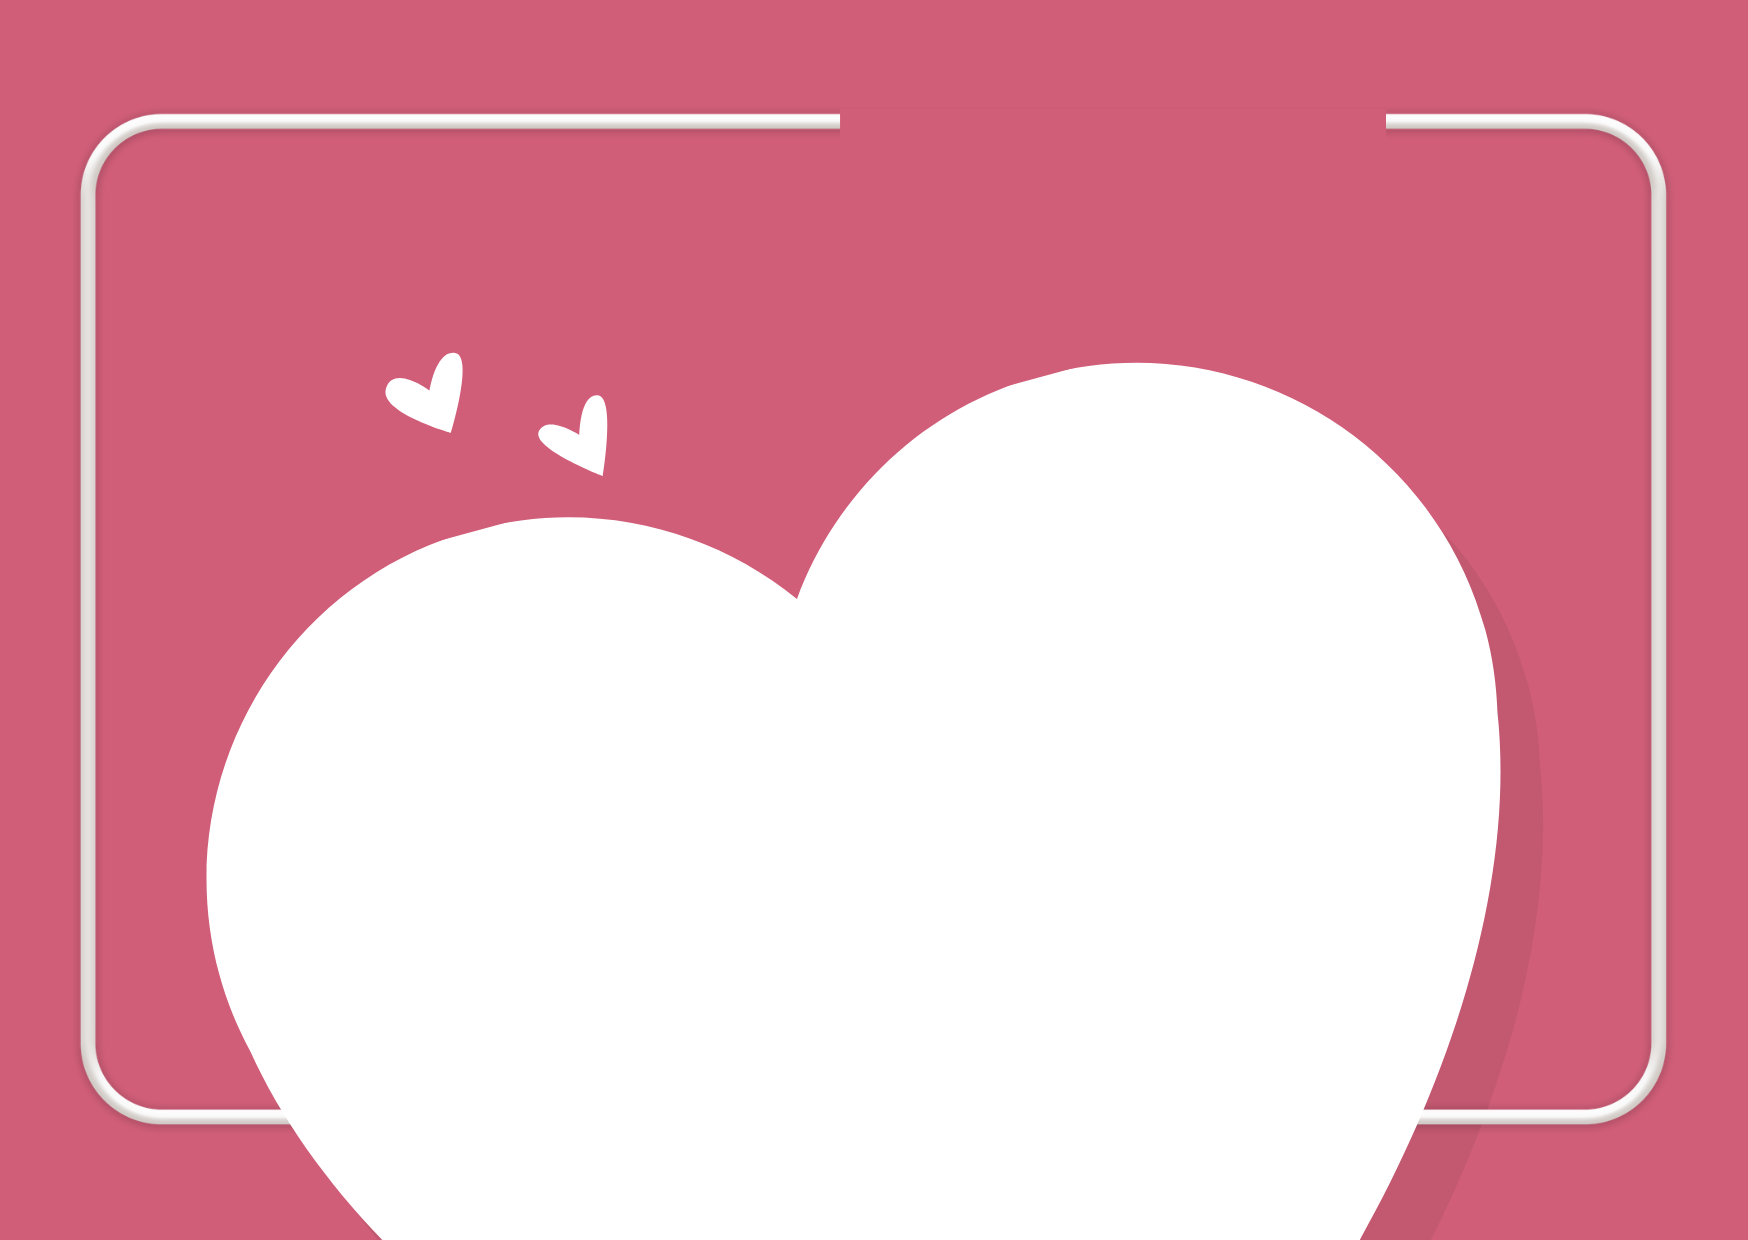
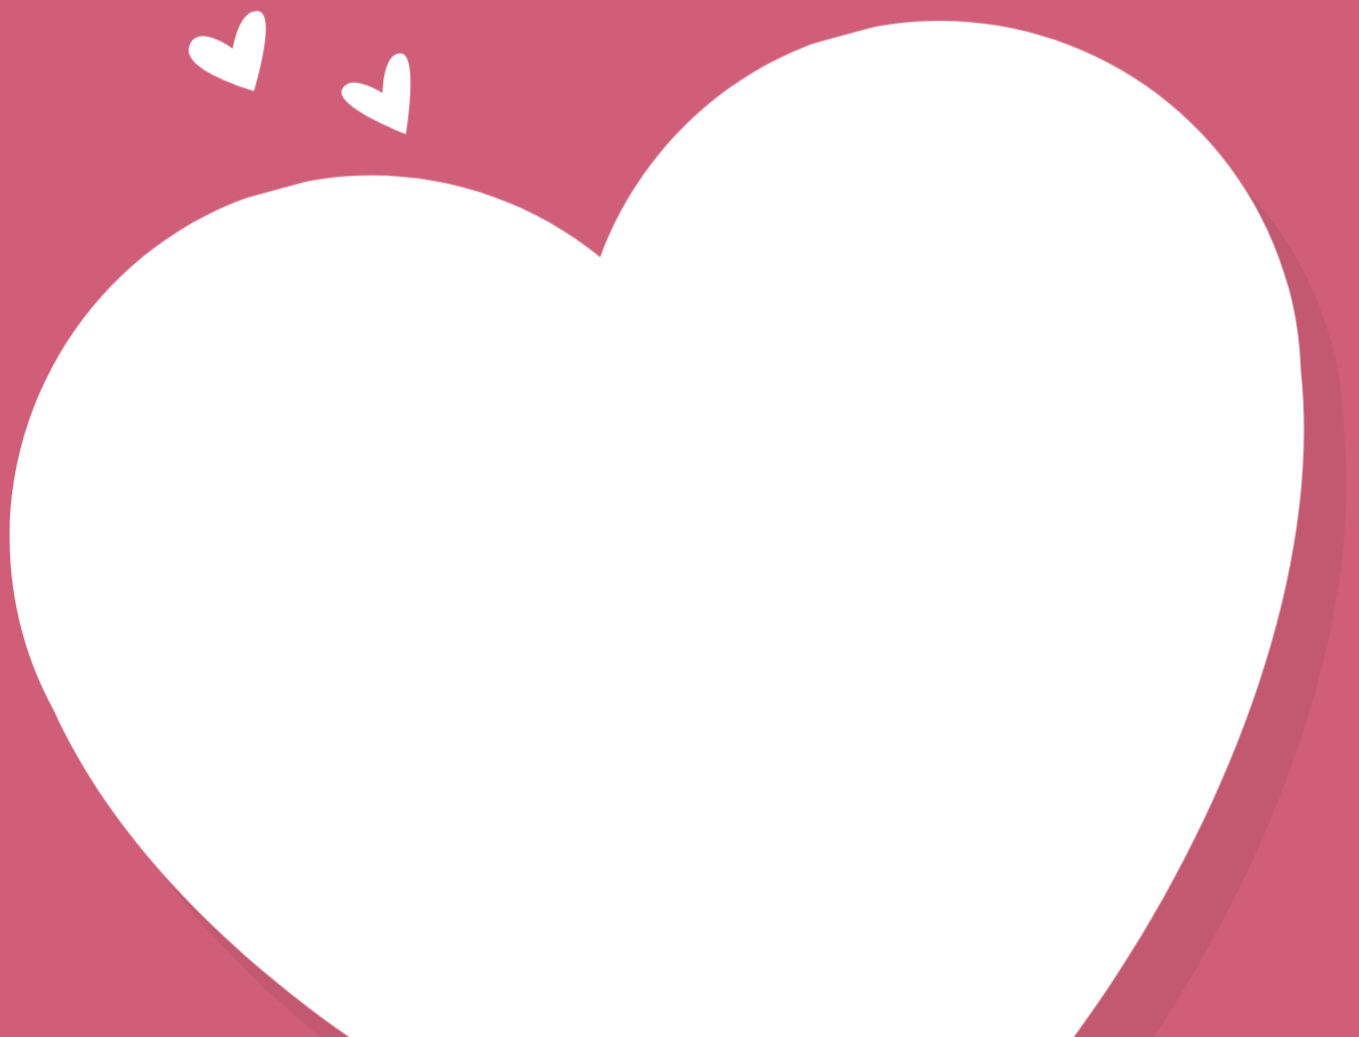
Agrega archivos de codigo

diff --git a/styles.css b/styles.css
@@ -1,0 +1,39 @@
+
+body {
+    background-size: contain; /* Ajusta la imagen completa sin recortar */
+    background-repeat: no-repeat;
+    background-position: center 60%; /* Baja la imagen ajustando el valor vertical */
+    background-attachment: fixed;
+    background-color: #d15e79;
+    height: 100vh;
+    margin: 300;
+    display: flex;
+    justify-content: center;
+    align-items: center;
+}
+
+/* Ajustes específicos para dispositivos móviles */
+@media (max-width: 599px) {
+    body {
+        background-size: contain;
+        background-position: center 80%; /* Baja aún más la imagen en móviles */
+        background-attachment: scroll;
+    }
+}
+
+
+.titulo {
+    font-family: 'Dancing Script', cursive; /* Fuente romántica */
+    font-size: 3rem; /* Tamaño grande */
+    color: #ff4d6d; /* Rosa vibrante */
+    text-shadow: 2px 2px 5px rgba(0, 0, 0, 0.3); /* Sombra para resaltar */
+    text-align: center; /* Centrado */
+    margin-top: 20px; /* Espaciado superior */
+}
+
+/* Ajuste para pantallas móviles */
+@media (max-width: 599px) {
+    .titulo {
+        font-size: 2.5rem; /* Tamaño un poco menor en móviles */
+    }
+}

diff --git a/index.html b/index.html
@@ -1,0 +1,12 @@
+<head>
+    <meta charset="UTF-8">
+    <meta name="viewport" content="width=device-width, initial-scale=1.0">
+    <title>Buzón de San Valentín 💌❤</title>
+    <link rel="stylesheet" href="styles.css"> <!-- Referencia al archivo CSS externo -->
+    <link href="https://fonts.googleapis.com/css2?family=Dancing+Script:wght@700&display=swap" rel="stylesheet">
+</head>
+<body>
+    <h1 class="titulo">💖 Buzón de San Valentín 💖</h1>
+    <!-- Incluir la imagen directamente en el contenido -->
+    <img src="fondoBuzon.png" alt="Fondo del Buzón de San Valentín">
+</body>
